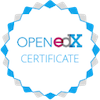
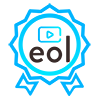
refactor: eol images & css overrides

diff --git a/cms/static/sass/_overrides.scss b/cms/static/sass/_overrides.scss
@@ -1,0 +1,28 @@
+.nav-not-signedin-signup {
+	display:none !important;
+}
+.view-signup .content header .action, .view-signin .content header .action, .view-util .content header .action{
+	display:none !important;
+}
+.view-howitworks.not-signedin .content-cta .list-actions .action.action-primary{
+	display:none !important;
+}
+.wrapper-header .branding a img{
+	height: 29px ;
+	max-height: 29px ;
+}
+
+.wrapper-header .branding a img {
+    @media (min-width: 1065px) {
+        height: 33px ;
+        max-height: 33px ;
+    }
+    @media (min-width: 1320px) {
+            height: 40px ;
+            max-height: 40px ;
+    }
+}
+
+.wrapper-header  .wrapper-r {
+	background: none !important;
+}
